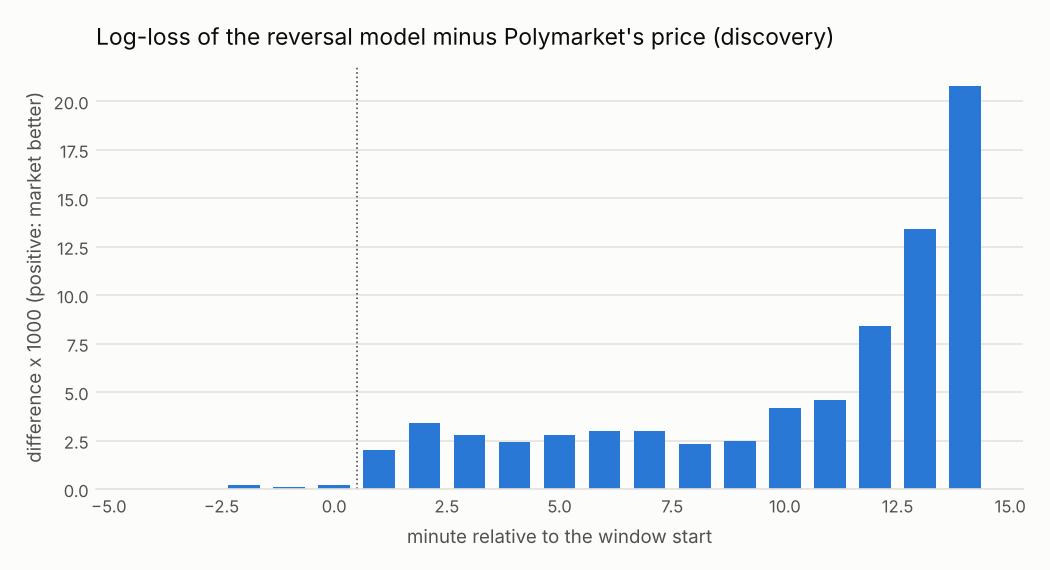
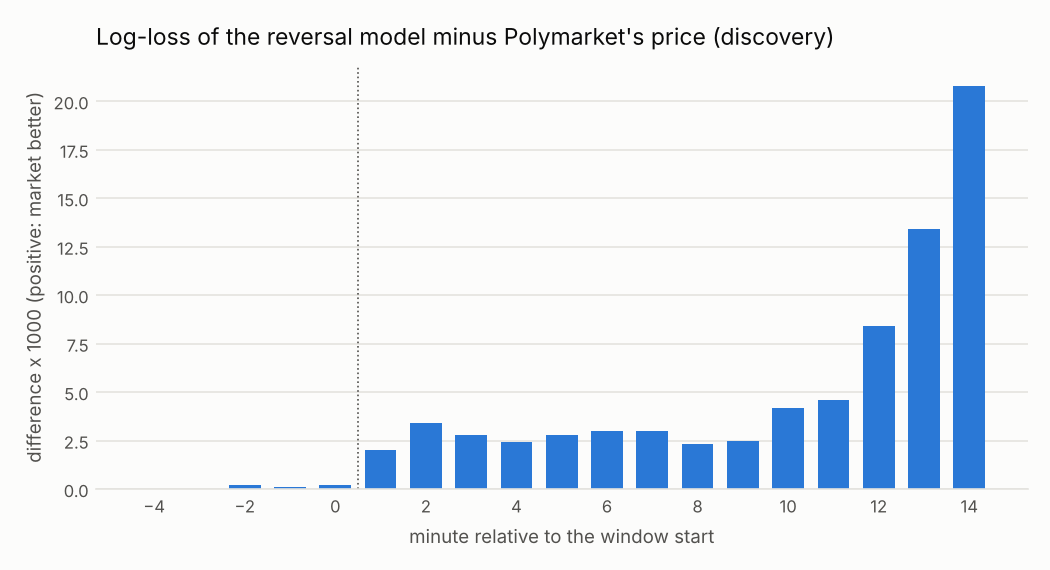
Run the Polymarket holdout and write up the results
Windows from April to October 2026, run once with the frozen code.

diff --git a/src/btcbin/figures.py b/src/btcbin/figures.py
@@ -58,7 +58,7 @@ def calibration(reports: Path, out: Path) -> None:
     t = pd.read_csv(reports / "binary" / "calibration.csv")
     fig, ax = _figure(5.2, 4.6)
     ax.plot([0, 1], [0, 1], color=GRID, linewidth=1)
-    for i, (col, label) in enumerate([("g_ewma", "EWMA, Gaussian"), ("recal", "HAR + seasonality + DVOL, empirical tails")]):
+    for i, (col, label) in enumerate([("g_ewma", "EWMA, Gaussian"), ("recal", "HAR + seasonality + DVOL, empirical tails, recalibrated")]):
         g = t[t.model == col]
         ax.plot(g.predicted, g.realised, color=SERIES[i], linewidth=2, marker="o", markersize=4, label=label)
     _style(ax, "Calibration, 2024-2026 window-minutes", "predicted probability of an up window", "realised frequency")
@@ -87,9 +87,36 @@ def market_vs_model(reports: Path, out: Path, sample: str = "discovery") -> None
     fig, ax = _figure()
     ax.bar(t.index, gap, 0.7, color=SERIES[0])
     ax.axvline(0.5, color=MUTED, linewidth=0.8, linestyle=":")
+    ax.set_xticks(range(-4, 15, 2))
     _style(ax, f"Log-loss of the reversal model minus Polymarket's price ({sample})",
            "minute relative to the window start", "difference x 1000 (positive: market better)")
     _save(fig, out / f"polymarket_model_minus_market_{sample}.png")
+
+
+def taker_decomposition(reports: Path, out: Path) -> None:
+    hold = reports / "polymarket" / "holdout" / "taker.csv"
+    if not hold.exists():
+        return
+    disc = pd.read_csv(reports / "polymarket" / "discovery" / "taker_trades.csv")
+    pick = lambda regime: disc[(disc.fee_regime == regime) & (disc.model == "p_rev") & (disc.theta == 0.02)].iloc[0]
+    h = pd.read_csv(hold).iloc[0]
+    groups = [("Discovery,\nfees as charged", pick("all, actual fees")),
+              ("Discovery,\ncurrent fee rule", pick("all, current fee rule applied")),
+              ("Holdout,\ncurrent fee", h)]
+    fig, ax = _figure()
+    x, w = np.arange(len(groups)), 0.26
+    for i, (col, label) in enumerate([("gross_c", "gross"), ("fee_c", "fee"), ("net_c", "net")]):
+        vals = [g[col] for _, g in groups]
+        bars = ax.bar(x + (i - 1) * w, vals, w - 0.02, color=SERIES[i], label=label)
+        for b, v in zip(bars, vals, strict=True):
+            ax.annotate(f"{v:+.2f}" if col != "fee_c" else f"{v:.2f}", (b.get_x() + b.get_width() / 2, max(v, 0)),
+                        xytext=(0, 3), textcoords="offset points", ha="center", fontsize=7, color=MUTED)
+    ax.axhline(0, color=MUTED, linewidth=0.8)
+    ax.set_xticks(x, [g for g, _ in groups])
+    _style(ax, "Pre-window taker rule: cents per share", "", "cents per share")
+    ax.set_ylim(min(-0.5, ax.get_ylim()[0]), 3.2)
+    ax.legend(frameon=False, fontsize=8, labelcolor=INK, ncol=3, loc="upper right")
+    _save(fig, out / "taker_gross_fee_net.png")
 
 
 def render(reports: Path) -> None:
@@ -100,3 +127,4 @@ def render(reports: Path) -> None:
     reversal(reports, out)
     for sample in ("discovery", "holdout"):
         market_vs_model(reports, out, sample)
+    taker_decomposition(reports, out)

diff --git a/README.md b/README.md
@@ -1,3 +1,233 @@
 # Pricing 15-minute bitcoin binaries
 
-In progress: see `protocols/polymarket_reversal.md`.
+Polymarket lists a binary market on every 15-minute window of the bitcoin
+price: "Up" pays one dollar if bitcoin ends the window at or above its opening
+price. This project asks how well these contracts can be priced from public
+exchange data, and whether the market prices them efficiently. It has three
+parts: forecasting 15-minute volatility, turning the forecast into a
+probability at every minute of the window, and comparing those probabilities
+with the prices and trades of 37,099 resolved Polymarket markets from
+October 2025 to October 2026, with a holdout pre-registered before it was
+examined.
+
+The main findings:
+
+- A HAR model of realised variance forecasts 15-minute volatility far better
+  than an exponentially weighted average: 22% lower QLIKE loss out of sample
+  over 2024-2026 (Diebold-Mariano t = -5.6).
+- Bitcoin's 15-minute returns reverse its moves of the previous 5 to 240
+  minutes. After the weakest tenth of past-hour returns, 55.2% of windows
+  closed up; after the strongest tenth, 45.2%. The effect is stable from
+  2022 to 2026 and significant out of sample (t = 7.0).
+- Polymarket's price is a better forecaster than any model built on Binance
+  data; it reflects the oracle that settles the contract and reacts within
+  seconds. But it underweights reversal. In the pre-registered holdout (April
+  to October 2026, 20,543 markets) the model added information to the market
+  price in the minutes before the window opens (logit coefficient 0.29,
+  t = 3.1, p < 0.001), and a taker rule based on it bought the winning side
+  at traded prices often enough to earn 1.71 cents per share before fees
+  (t = 2.3).
+- That edge is exactly what Polymarket's current taker fee takes away: 1.73
+  cents per share at those prices, for a net of -0.03 cents. Under the
+  cheaper fee schedule of January to March 2026 the same rule earned 1.81 cents
+  per share net (t = 3.2). It is the fee, not the market's pricing, that
+  closes the trade.
+
+| Pre-registered test | Discovery, Oct 2025-Mar 2026 | Holdout, Apr-Oct 2026 | Holm-adjusted p |
+|---|---|---|---|
+| H1: model adds information before the window opens (primary) | 0.520 (t 4.41) | 0.292 (t 3.14) | 0.003 |
+| H1b: same, during the window | 0.186 (t 4.40) | 0.178 (t 5.44) | <0.001 |
+| H2: taker rule, gross P&L per share | +2.11 c (t 3.72) | +1.71 c (t 2.32) | 0.020 |
+| H3: taker rule, P&L net of the fee | +1.81 c (t 3.20) | -0.03 c (t -0.04) | 0.51 |
+| H4: quoting around the model rather than the market, P&L per fill | +0.91 c (t 1.71) | +1.28 c (t 3.11) | 0.003 |
+
+## Data
+
+Binance spot BTCUSDT one-minute bars from the public archive, January 2019 to
+October 2026 (4.1 million bars). Deribit's DVOL index, the 30-day implied
+volatility of bitcoin options, hourly from March 2021; Deribit stamps each
+hourly candle at its open, so its close is used only from the end of the hour.
+For Polymarket, every market slug `btc-updown-15m-{start}` from 2025-10-09 to
+2026-11-01 (37,248 windows, 120 never listed): the official resolution and fee
+schedule, the one-minute price history of the Up token from five minutes
+before the window to five minutes after it, and every taker trade from five
+minutes before the start to 90 seconds after it.
+
+A bar stamped t covers t to t+1 minute, so its close is the price at t+1
+minute and is used only from then on. All forecasts at time t use bars that
+closed by t. Polymarket resolves on Chainlink's BTC/USD stream, not Binance, so
+every Polymarket result is scored against the official resolution. The two
+agree on 98.5% of discovery windows and 96.7% of holdout windows.
+
+## 1. Volatility forecasts
+
+The target is the sum of squared one-minute log returns over a 15-minute
+window. The models are a trailing 30-day mean; an EWMA of squared returns
+(half-life 240 minutes, chosen on 2019-2023); HAR-RV on logs (Corsi 2009),
+with the realised variance of the last 15 minutes, hour, day and week; HAR on
+log variance net of an hour-of-week factor; and that model with DVOL implied
+variance added. The HAR models are refitted every January on all earlier
+windows. Forecasts are scored on the 99,359 windows from January 2024 to
+October 2026 ([table](reports/vol/oos_annual_refit.csv)).
+
+| Model | QLIKE | Gain over EWMA | DM t vs EWMA | Mincer-Zarnowitz R2 (logs) |
+|---|---:|---:|---:|---:|
+| 30-day mean | 0.814 | -64% | 12.7 | 0.12 |
+| EWMA | 0.496 | | | 0.50 |
+| HAR | 0.387 | 22.0% | -5.6 | 0.65 |
+| HAR, hour-of-week | 0.415 | 16.4% | -2.2 | 0.66 |
+| HAR, hour-of-week, DVOL | 0.396 | 20.3% | -4.0 | 0.66 |
+
+The hour-of-week factor and implied volatility raise the explained variance
+but do not lower QLIKE. The reason is a weakness worth knowing about: on quiet
+weekends Binance's price can stay unchanged for minutes, the log variance of
+the last quarter-hour collapses, and a seasonal factor that already expects
+a calm weekend pushes the forecast lower still. In 2026, twenty windows, the
+largest of them on weekends, account for all of the seasonal model's excess
+loss over plain HAR; on 2026 weekdays it is better (QLIKE 0.343 against 0.354)
+([by year](reports/vol/oos_annual_refit_by_year.csv),
+[figure](reports/figures/vol_qlike_by_year.png)).
+
+## 2. The probability of an up window
+
+At minute m of a window that opened at price K, with current price S and a
+forecast F of the variance over the next 15 minutes, the driftless Gaussian
+probability is Phi(log(S/K) / sqrt(F (15-m)/15)). The empirical version
+replaces the normal distribution with the distribution of standardised
+remaining returns at the same minute in earlier years, which has fat tails. A
+logistic recalibration fitted on earlier years corrects what remains.
+
+Scored on 1.39 million window-minutes from 2024 to 2026
+([table](reports/binary/oos_scores.csv)):
+
+| Probability | Log-loss | Brier |
+|---|---:|---:|
+| 1/2 | 0.6931 | 0.2500 |
+| 30-day mean, Gaussian | 0.4904 | 0.1625 |
+| EWMA, Gaussian | 0.4733 | 0.1574 |
+| HAR, Gaussian | 0.4646 | 0.1552 |
+| HAR, hour-of-week, DVOL, Gaussian | 0.4635 | 0.1549 |
+| same, empirical tails | 0.4612 | 0.1543 |
+| same, recalibrated | 0.4611 | 0.1543 |
+
+The best model's log-loss is 2.6% below the EWMA model's, and the gain grows
+through the window, from 0.3% at the first minute to 8.6% at the last, where
+the volatility forecast matters most
+([by minute](reports/binary/oos_by_minute.csv)). The Gaussian EWMA prices are
+too timid: when they say 75% the window closes up 81% of the time
+([calibration](reports/figures/binary_calibration.png)).
+
+## 3. Short-horizon reversal
+
+The driftless model assumes the next quarter-hour is a coin flip apart from
+where the price already stands. It is not. Adding past returns over 1, 5, 15,
+60 and 240 minutes, each scaled by the volatility forecast, to a logistic
+regression refitted each year on earlier years only, gives negative
+coefficients on every horizon from 5 minutes up, with almost the same values
+in every refit ([coefficients](reports/binary/reversal_coefficients.csv)). Out
+of sample, from 2024 to 2026, the reversal model lowers log-loss at every
+minute, by 0.30% at the window start and 0.19% over all minutes (t = 7.0 with
+standard errors clustered by day). Across deciles of the past hour's return, the share of windows that
+close up falls from 55.2% to 45.2%
+([figure](reports/figures/reversal_past_hour.png)).
+
+## 4. Polymarket
+
+**Discovery.** On the 16,556 markets from 2025-10-10 to 2026-03-31, the market
+price ([log-loss 0.518](reports/polymarket/discovery/forecast_scores.csv)),
+taken from the first price print after each minute (median 11 seconds later),
+beats the reversal model (0.522): the two are level before the window opens
+and the market is better at every minute after. The gap widens toward the end
+of the window, where the market sees the settlement oracle and the model
+only sees Binance ([figure](reports/figures/polymarket_model_minus_market_discovery.png)).
+Two checks support the timing: price prints respond to Binance returns before
+them but not to returns more than a minute after them, and a placebo that
+picks a random side with the same fill rule earns nothing.
+
+Even so, the model adds information to the market price. A logistic
+regression of the resolution on the logits of both gives the model a
+coefficient of 0.52 before the window opens (t = 4.4) and 0.19 during it
+(t = 4.4). Before the window opens the driftless model is 1/2, so this is
+the reversal drift. Polymarket prices move with past returns in the right
+direction but by too little.
+
+A taker rule turns this into trades. At each of the five minutes up to the
+window start, the ask of each side is the last taker purchase in the previous
+30 seconds. Buy the side whose model value beats its ask plus the fee by more
+than 2 cents, once per window, and fill at the next actual taker purchase of
+that side within 30 seconds. On discovery data it earned 2.11 cents per share
+gross and 1.81 net, positive in each of the six months
+([tables](reports/polymarket/discovery/taker_trades.csv)). The fee schedule
+changed twice: none until 6 January 2026; 0.78 cents per share at a 50-cent
+price from 7 January; 1.75 cents from 30 March. With the current fee applied
+to the whole discovery sample, the net edge was only 0.65 cents (t = 0.8), so
+the protocol named "information real, absorbed by the fee" as the most
+likely holdout outcome.
+
+**Holdout.** The protocol
+([`protocols/polymarket_reversal.md`](protocols/polymarket_reversal.md))
+was committed with the frozen code in `src/btcbin/holdout.py` before any
+holdout price, trade or resolution was analysed, and the holdout was then run
+once ([results](reports/polymarket/holdout/frozen_tests.csv)). Four of five
+tests reject at 5% after a Holm adjustment. The model added information
+before the window (0.29, t = 3.1) and during it (0.18, t = 5.4). The taker rule
+made 4,344 trades, 20 a day, with a gross edge of 1.71 cents per share
+(t = 2.3) and a fee of 1.73 cents, for a net of -0.03 cents
+([figure](reports/figures/taker_gross_fee_net.png)). Filling at the last
+traded price before the decision instead gives +0.18 cents net. Monthly net
+P&L was positive from April to August and negative in September and October
+([by month](reports/polymarket/holdout/taker_by_month.csv)). Resting bids two
+cents inside the model's fair value lost 1.01 cents per fill to better-informed
+takers, against 2.25 cents for bids around the market's own mid (difference
+t = 3.1). The model reduces adverse selection, but not by enough to make
+quoting profitable without rebates.
+
+## Conclusions
+
+The forecasting results hold up: HAR-type models beat EWMA for 15-minute
+bitcoin volatility by about a fifth, and fat-tailed, recalibrated probabilities
+beat the Gaussian ones a live pricer would typically use. The reversal effect
+is the substantive finding. It is a small drift, worth a few percentage points
+of probability, but it is stable across five years. A liquid prediction
+market that otherwise prices these contracts better than any exchange-only
+model still underweights it, out of sample and under pre-registration.
+
+Whether that is money depends on the fee. Polymarket introduced taker fees on
+these markets in January 2026 and raised them in March; at the current rate
+the fee equals the edge almost exactly. The result is an inefficiency that is
+statistically clear and economically closed to takers, and the holdout's last
+two months suggest it may also be shrinking.
+
+## Reproduction
+
+```bash
+pip install -e ".[dev]"
+btcbin build-data --out data/real
+btcbin run vol
+btcbin run binary
+btcbin run polymarket --sample discovery
+btcbin run polymarket --sample holdout
+pytest
+```
+
+`build-data` downloads the Binance archive (about 100 monthly files), DVOL from
+Deribit's public API, and the Polymarket markets, price histories and
+pre-window trades (about 150,000 requests; resumable). Vendor data stay under
+`data/real/`, which is not tracked; the reports hold aggregate tables and
+figures only. `btcbin run vol` writes the minute-level forecasts the later
+parts read. The tests check Polymarket's fee formula against its published
+table, the timing of price prints, quotes and fills, that passive bids fill
+only when traded through, the alignment of the variance target, that features
+do not change when future data are altered, and the Gaussian pricing formula.
+
+## Limitations
+
+The ask is inferred from taker trades, not from the order book, and the
+median taker purchase used as a fill was 11 shares, so the tests say nothing
+about trading more than a few tens of shares a window. Passive fills assume a bid is hit only when
+a trade goes through it, with no queue and no rebates. The model sees Binance
+one-minute closes, while the market sees the settlement oracle and
+second-by-second prices; a faster feed would help the model during the window
+but probably not before it, where the result lies. The reversal effect was
+known to persist in Binance data through 2026 when the protocol was written;
+the holdout tested Polymarket's pricing of it, which had not been examined.
